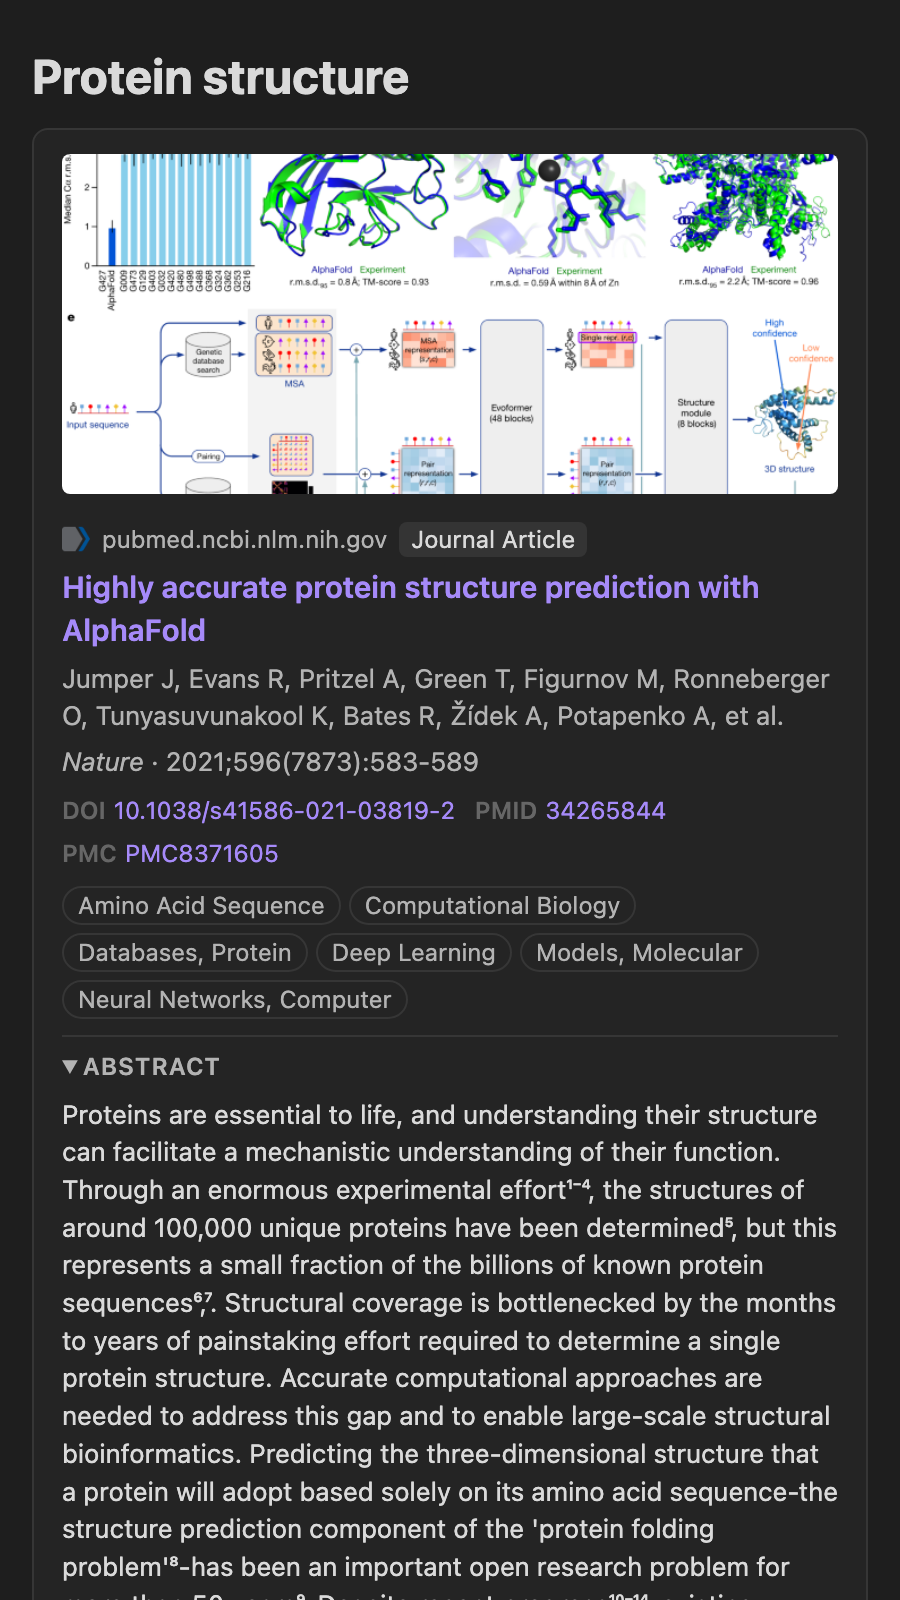
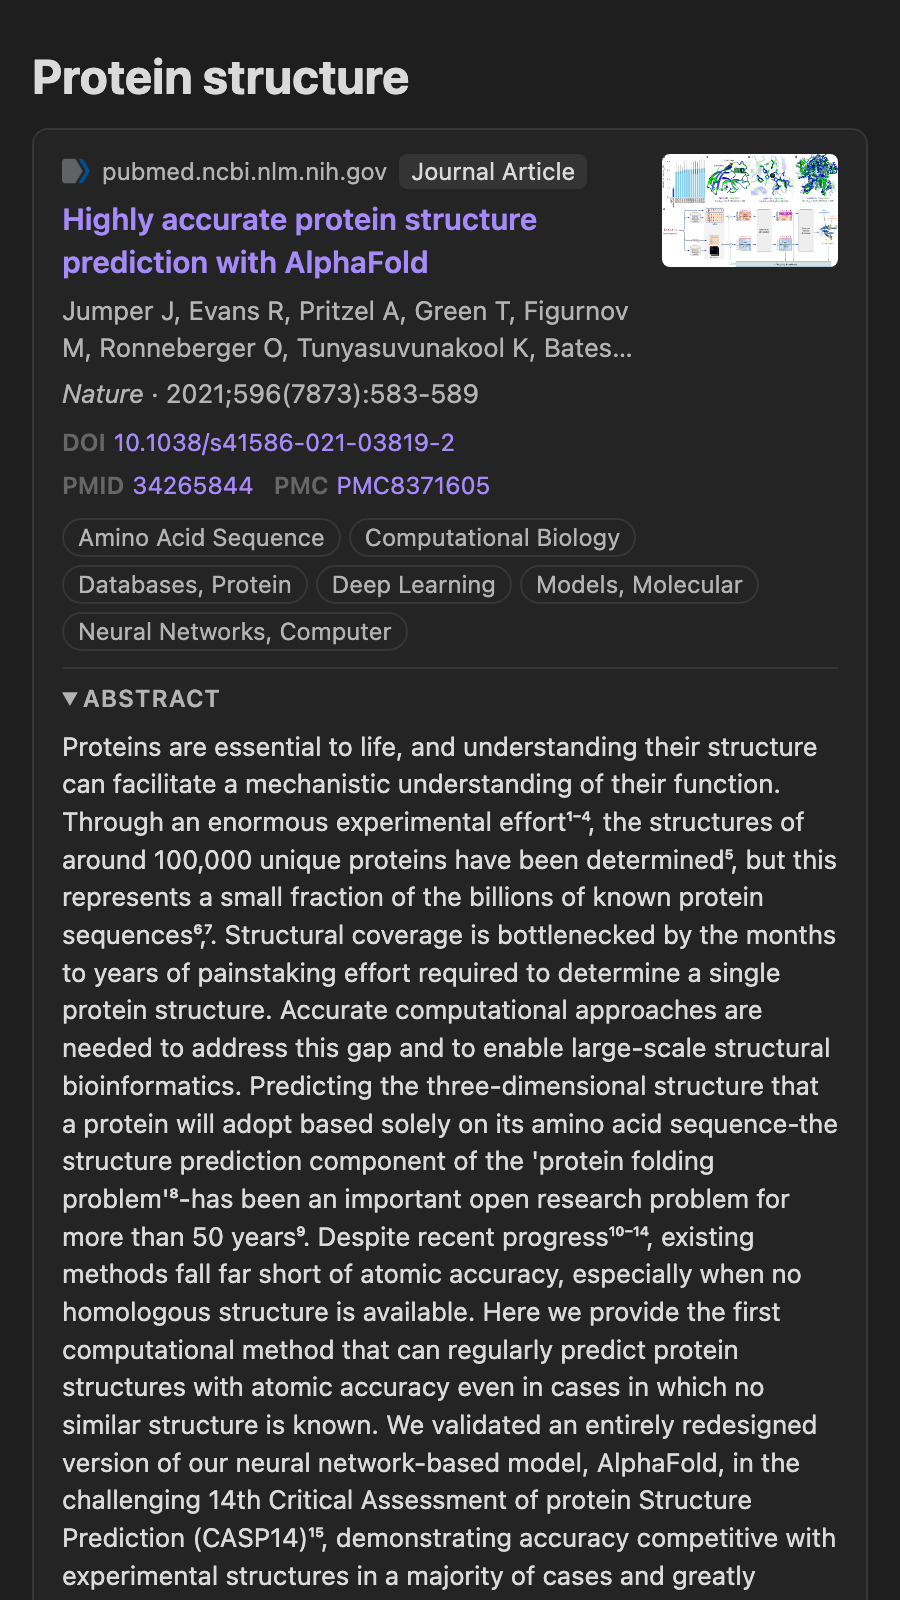
Keep the preview image on the right on narrow screens
The card used to stack the image above the text below 480px viewport
width (phones). It now stays on the right and shrinks to 88px, using a
container query on the card so narrow panes are handled too. The header
wraps so the type badge no longer runs under the image. Regenerate the
mobile listing screenshot. Bump to 1.2.2.

diff --git a/styles.css b/styles.css
@@ -7,6 +7,7 @@
 	font-size: var(--font-ui-small);
 	line-height: 1.45;
 	overflow: hidden;
+	container: scientific-article-card / inline-size;
 }
 
 .scientific-article-card-main {
@@ -25,6 +26,7 @@
 
 .scientific-article-card-header {
 	display: flex;
+	flex-wrap: wrap;
 	align-items: center;
 	gap: 6px;
 	color: var(--text-muted);
@@ -161,15 +163,14 @@ a.scientific-article-card-title:hover {
 	font-size: var(--font-ui-smaller);
 }
 
-@media (max-width: 480px) {
+/* The image always stays on the right; on narrow cards (phone, sidebar) it just gets smaller. */
+@container scientific-article-card (max-width: 520px) {
 	.scientific-article-card-main {
-		flex-direction: column-reverse;
+		gap: 10px;
 	}
-	.scientific-article-card-thumb {
-		width: 100%;
-		max-height: 160px;
-	}
+	.scientific-article-card-thumb,
 	.scientific-article-card-thumb img {
-		max-height: 160px;
+		width: 88px;
+		max-height: 88px;
 	}
 }
